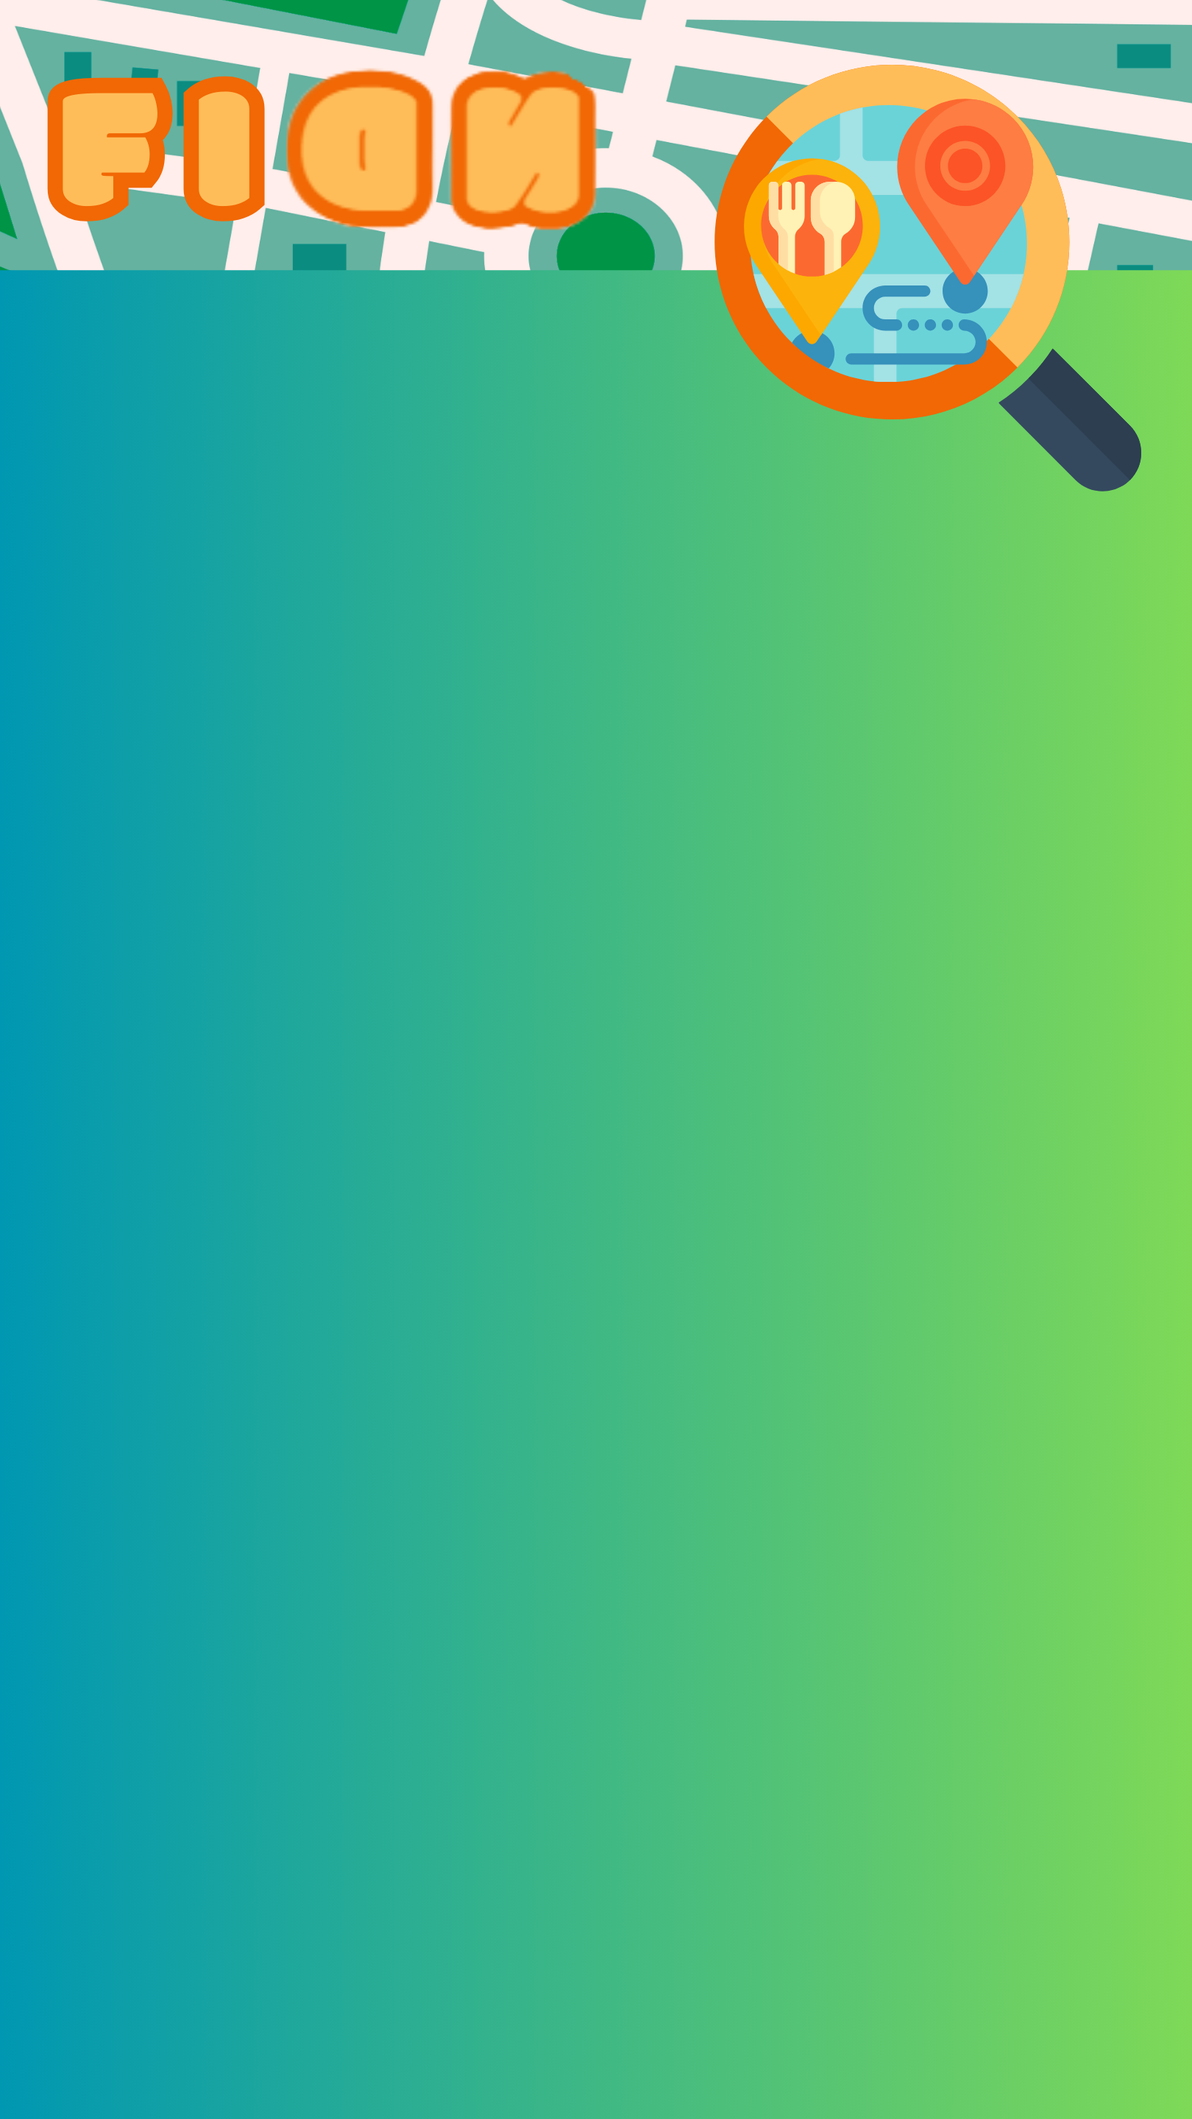
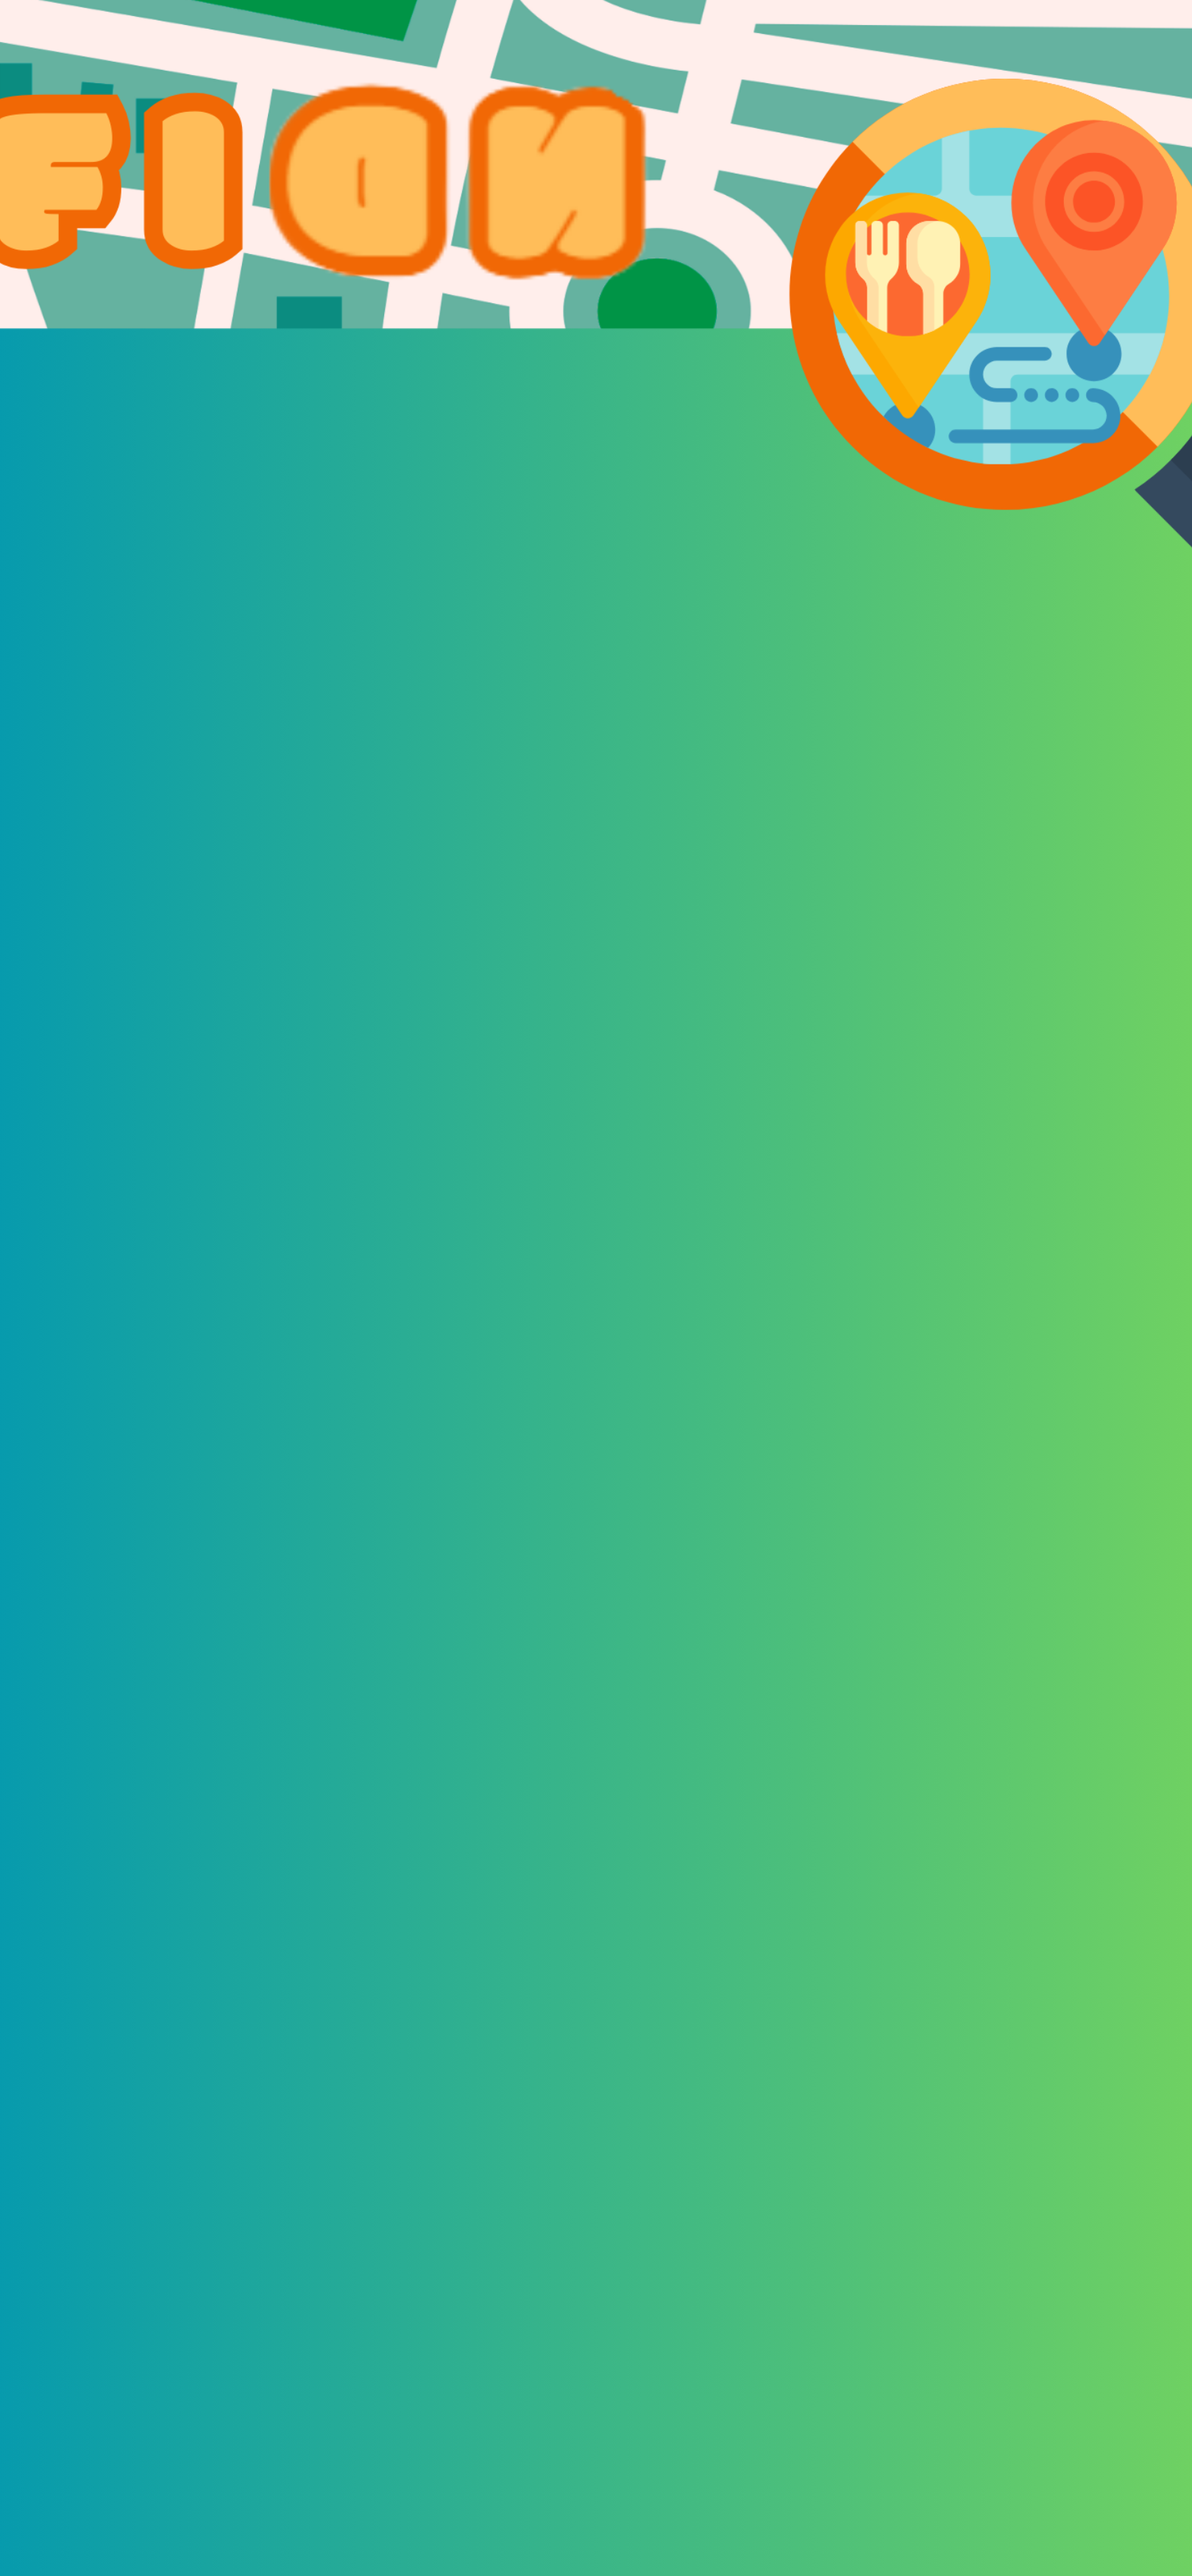
more changes to styling

Changed region(s): [[0.3395, 0.0, 1.0, 0.25], [0.0, 0.0, 0.2778, 0.125]]

diff --git a/app/templates/layout.html b/app/templates/layout.html
@@ -13,6 +13,12 @@
     
 
     <style>
+        html, body {
+            margin: 0;
+            padding: 0;
+            height: 100%;
+}
+
 
 body {
     margin: 0;
@@ -28,6 +34,8 @@ body {
 
         /* App-like wrapper */
         .app-wrapper {
+    background: linear-gradient(to right, #00bcd4, #8bc34a);
+    background-color: #00bcd4;
     background-image: url("{{ url_for('static', filename='Front-End_images/FIDN_background2.png') }}");
     background-repeat: no-repeat;
     background-position: top center;
@@ -40,6 +48,7 @@ body {
     display: flex;
     flex-direction: column;
     align-items: center;
+    justify-content: space-between;
     padding: 0;
     box-shadow: 0 0 15px rgba(0,0,0,0.2);
 }
